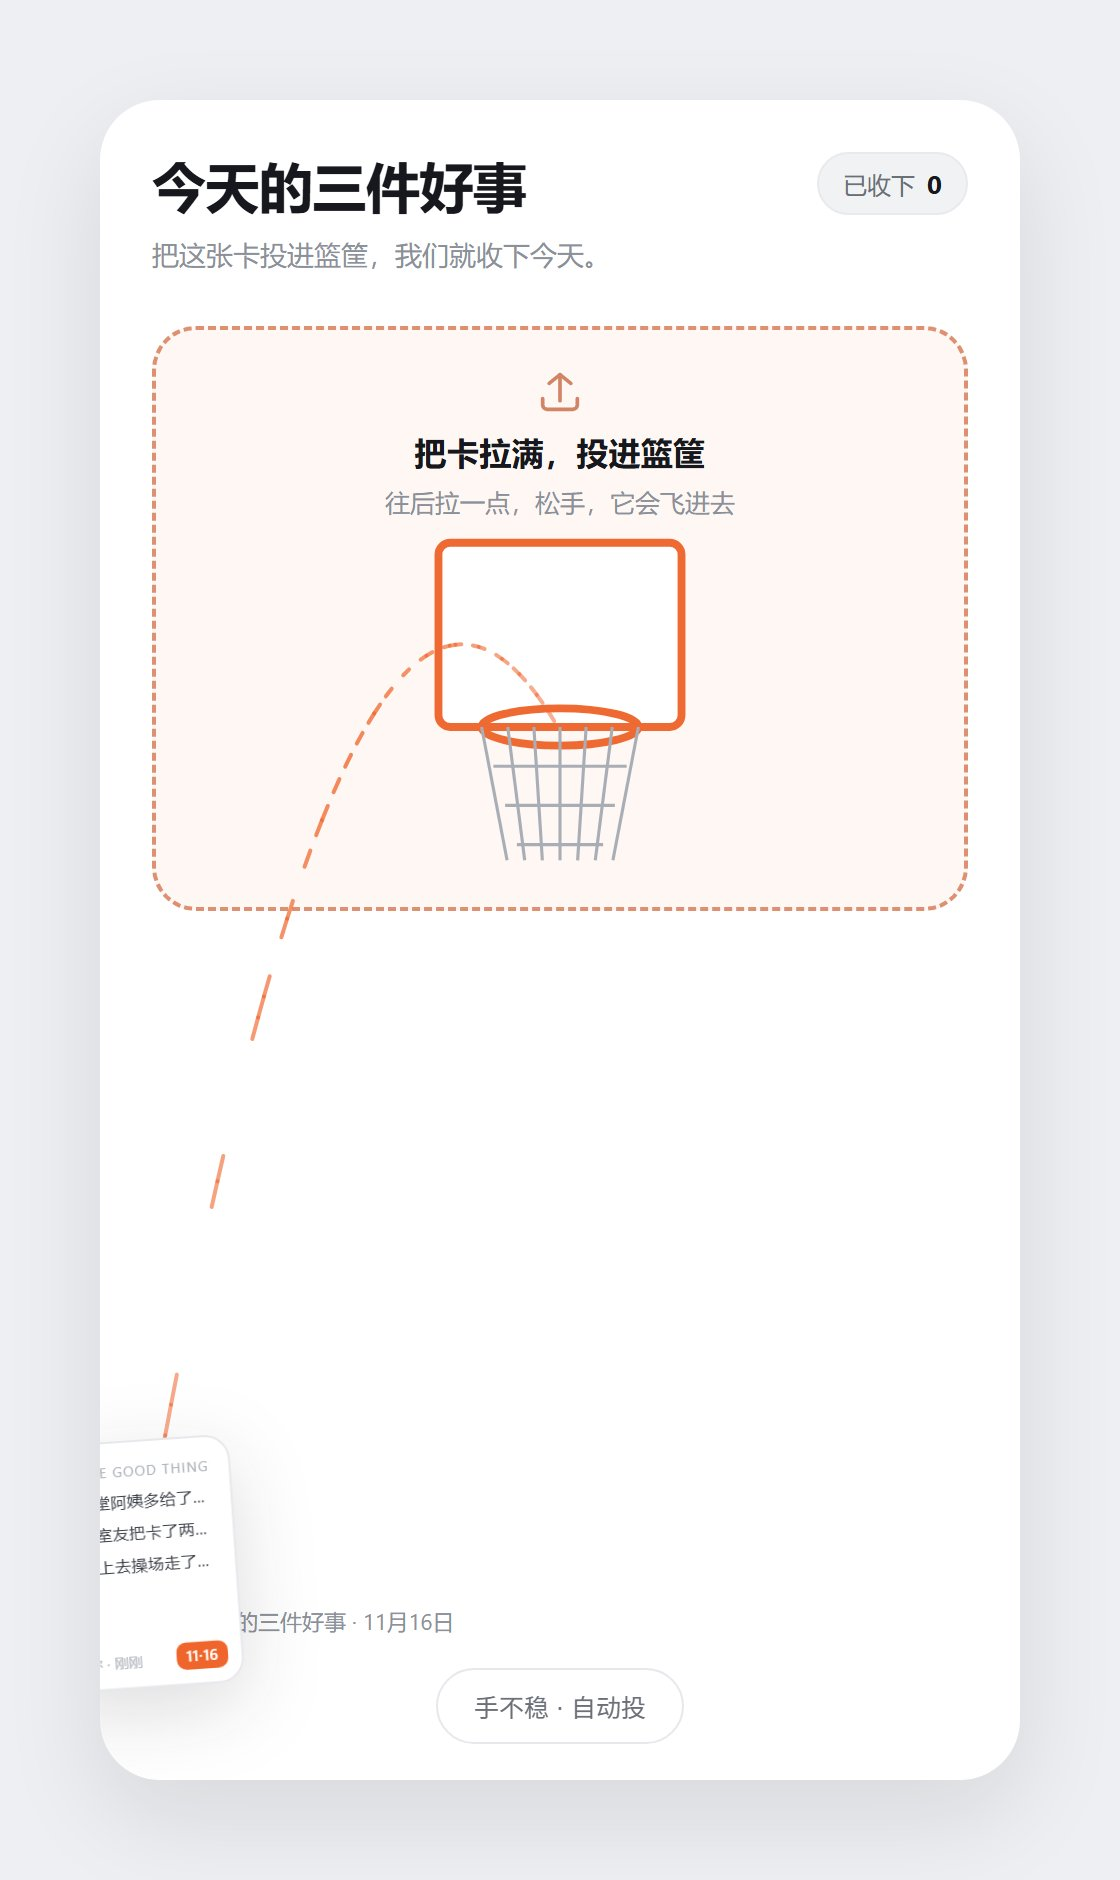
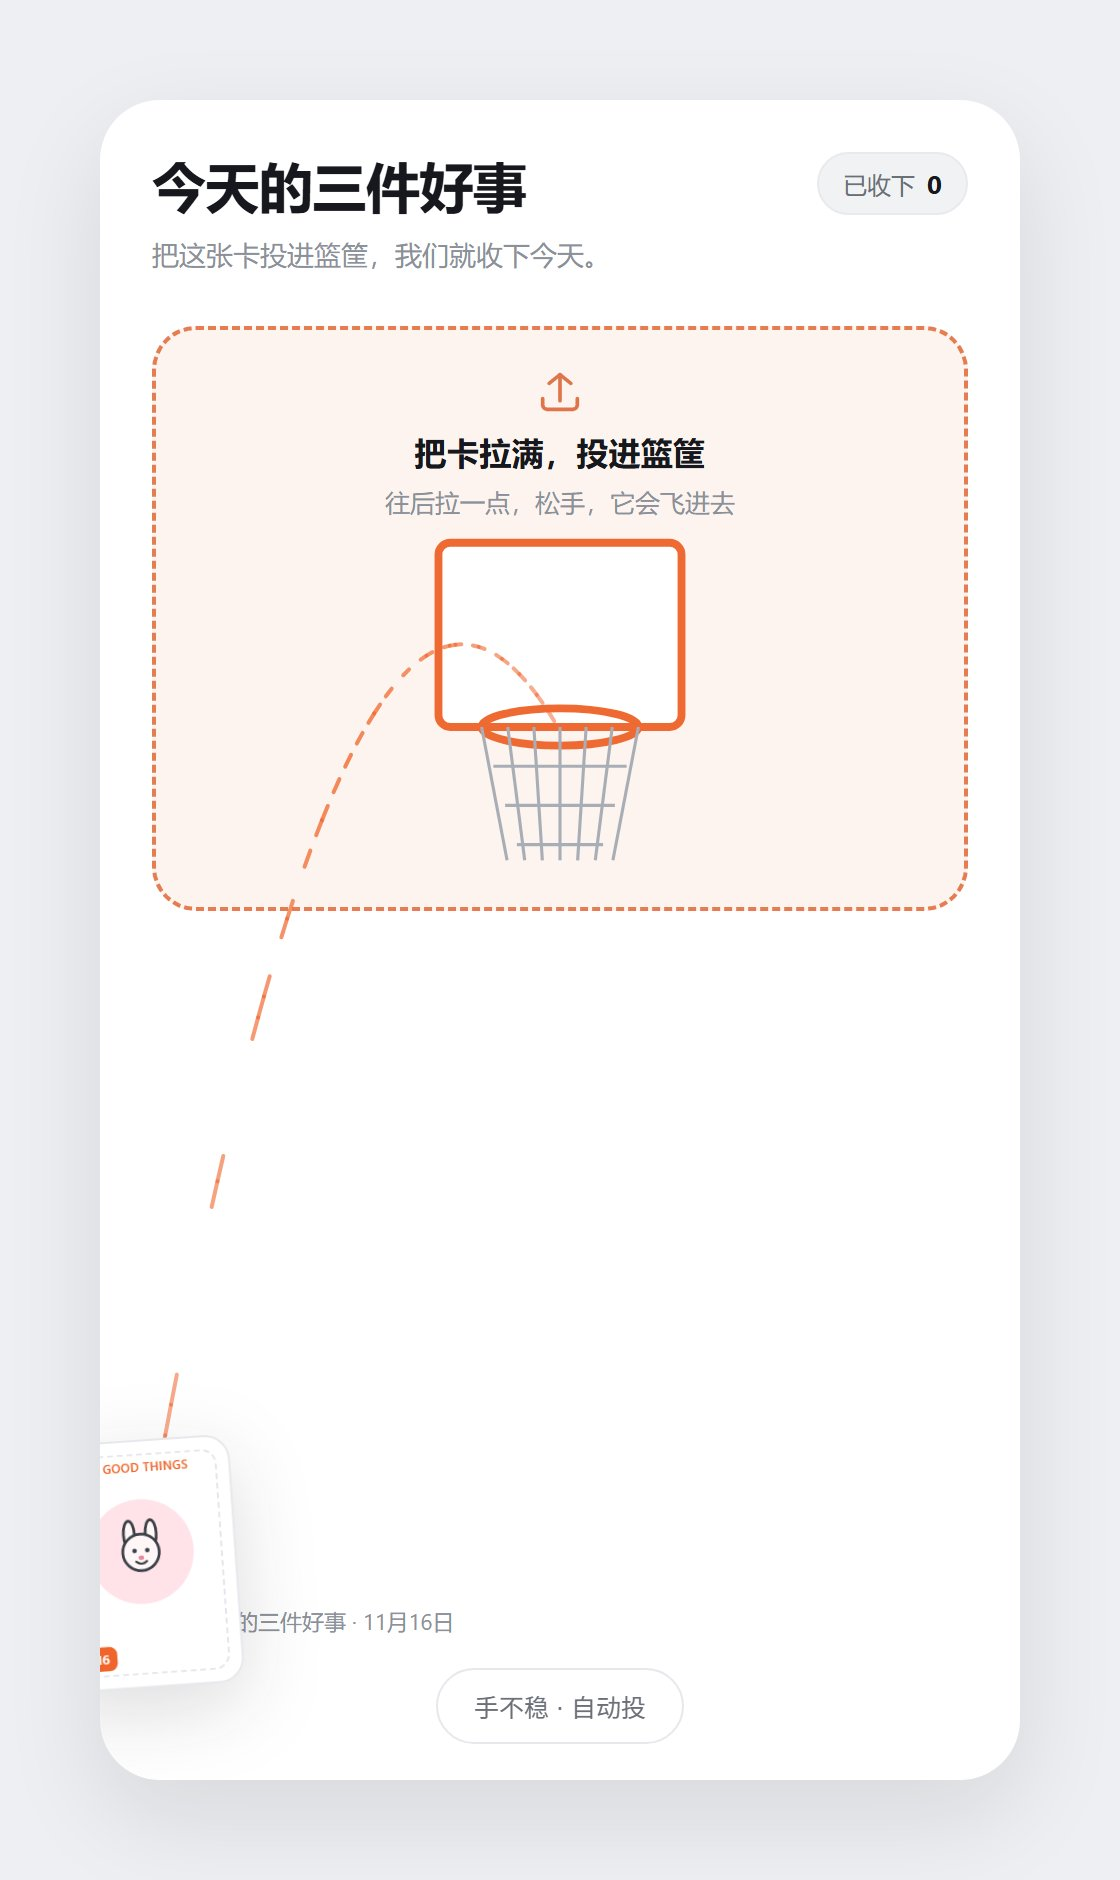
feat(card-flow): 投出去的卡改成显示卡背（卡通小动物），不露文字面

Changed region(s): [[0.0625, 0.7713, 0.2188, 0.8947]]

diff --git a/experiments/card-flow/index.html b/experiments/card-flow/index.html
@@ -80,6 +80,13 @@
   .mini .mi i{flex:0 0 auto;width:3px;height:3px;border-radius:50%;background:var(--orange);margin-top:4px}
   .mini .mfoot{margin-top:auto;font-size:7px;color:#B6BAC1;letter-spacing:.04em;padding-right:26px}
   .card-label{position:absolute;z-index:5;left:46px;bottom:72px;font-size:11px;color:var(--sub);white-space:nowrap}
+  /* 飞行卡用的是"卡背"（卡通小动物），不是文字面 */
+  .backface{position:relative;width:100%;height:100%;background:#fff;border:1px solid var(--line);border-radius:13px;overflow:hidden}
+  .backface::after{content:"";position:absolute;inset:6px;border:1px dashed #E4E6EA;border-radius:8px;pointer-events:none}
+  .bf-tag{position:absolute;top:9px;left:10px;font-size:6px;font-weight:600;letter-spacing:.05em;color:var(--orange)}
+  .bf-sticker{position:absolute;left:50%;top:45%;transform:translate(-50%,-50%);width:56%;aspect-ratio:1;border-radius:50%;display:flex;align-items:center;justify-content:center}
+  .bf-sticker svg{width:70%;height:auto}
+  .bf-badge{position:absolute;left:10px;bottom:9px;font-size:6.5px;font-weight:600;color:#fff;background:var(--orange);padding:2px 4px;border-radius:4px;letter-spacing:.03em}
   .fx-canvas{position:absolute;inset:0;z-index:5;pointer-events:none;width:100%;height:100%}
   .shoot-foot{position:absolute;left:0;right:0;bottom:18px;z-index:6;display:flex;justify-content:center}
   .ghost{padding:9px 18px;border-radius:999px;border:1px solid var(--line);background:#fff;color:#6B7078;font-size:12.5px;cursor:pointer;transition:all .2s}
@@ -540,10 +547,12 @@
   }
   function readItems() { return $$("#view-write .row input").map(i => i.value.trim()).filter(Boolean); }
   function miniCardHTML() {
-    return `<div class="mini">
-      <div class="mh">THREE GOOD THINGS</div>
-      ${readItems().map(t => `<div class="mi"><i></i><span>${esc(t)}</span></div>`).join("")}
-      <div class="mfoot">@你 · 刚刚<span class="badge">11·16</span></div>
+    const idx = collection.length % BACKS.length;
+    const b = BACKS[idx];
+    return `<div class="backface">
+      <span class="bf-tag">THREE GOOD THINGS</span>
+      <div class="bf-sticker" style="background:${b.bg}">${backSVG(idx)}</div>
+      <span class="bf-badge">11·16</span>
     </div>`;
   }
   function resetShoot() {

diff --git a/docs/design.md b/docs/design.md
@@ -52,7 +52,7 @@
 - 2026-11-16 **产品原则**：记录要轻（3 分钟）、回顾要有惊喜、不制造负罪感；不做社交/排行榜/打卡惩罚。
 - 2026-11-16 **"为什么" 默认折叠、不强制**：这个练习的效果很大程度来自给好事写归因，但不能逼人写。
 - 2026-11-16 **主题改白底极简**：按用户提供的录屏设计（"Upload files + 篮球"：白底、浅灰虚线框、橙色描边篮板、灰线篮网、底部卡片 + 上传进度条）复刻。`experiments/card-flow/` 已按此重做；`experiments/effects-lab/`（深色极光版）留作旧风格参考。
-- 2026-11-16 **投篮交互＝弹弓**：按住底部卡片向后拉 → 出现橙色虚线抛物线（拉得越远弧越高）→ 松手沿弧线飞进篮筐；拉太短弹回。入网时篮圈下压回弹、网兜逐根摆动。
+- 2026-11-16 **投篮交互＝弹弓**：按住底部卡片向后拉 → 出现橙色虚线抛物线（拉得越远弧越高）→ 松手沿弧线飞进篮筐；拉太短弹回。入网时篮圈下压回弹、网兜逐根摆动。**飞行中的卡显示卡背（卡通小动物），不露文字面**。
 - 2026-11-16 **卡池点开＝放大视图**：点卡片弹出放大的卡（宽 330px、正面字号 14.5px）并做 3D 翻面，点背景/「收起」/Esc 关闭；卡池里的小卡不再原地翻转（因为字号太小）。
 
 ## 7. 参考

diff --git a/README.md b/README.md
@@ -46,7 +46,7 @@
 [`experiments/card-flow/`](experiments/card-flow/) 把「三件好事」做成可以收集的卡：**写三条 → 生成卡 → 投篮把卡投进篮筐 → 卡背面朝上进卡池 → 点开翻牌看内容**。
 
 - 视觉复刻了「Upload files + 篮球」那套设计：白底、浅灰虚线框、橙色描边篮板、灰线篮网、底部卡片 + 上传进度条
-- 投篮交互按原设计改成**弹弓手感**：按住左下角的卡片**往后拉** → 出现一条**橙色虚线抛物线**（拉得越远弧线越高）→ **松手发射**；拉太短会弹回
+- 投篮交互按原设计改成**弹弓手感**：按住左下角的卡片**往后拉** → 出现一条**橙色虚线抛物线**（拉得越远弧线越高）→ **松手发射**；拉太短会弹回。**投出去的卡显示的是卡背（卡通小动物），文字面不会露出来**
 - 细节：卡片沿弧线飞行（带旋转和缩放）、篮圈下压回弹、**网兜逐根绳子摆动**、橙色光点拖尾、Web Audio 音效；卡池里**点卡片会弹出放大的卡**（字体放大到 14.5px，点背景或「收起」关闭）
 - 卡背是原创小动物（手绘 SVG，可整组替换素材，不碰版权）
 - 本地打开 `experiments/card-flow/index.html`；`#shoot&drag` 看拉弓状态、`#shoot&frozen=0.55` 定格飞行、`#wall&open=0` 看放大视图
